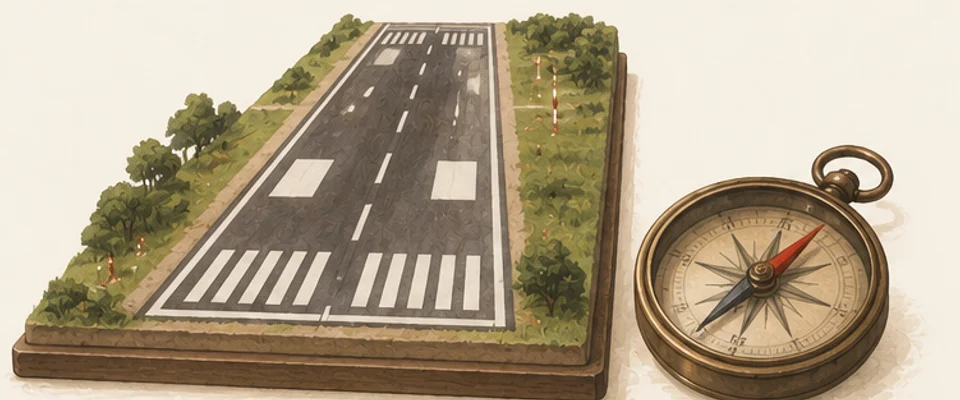
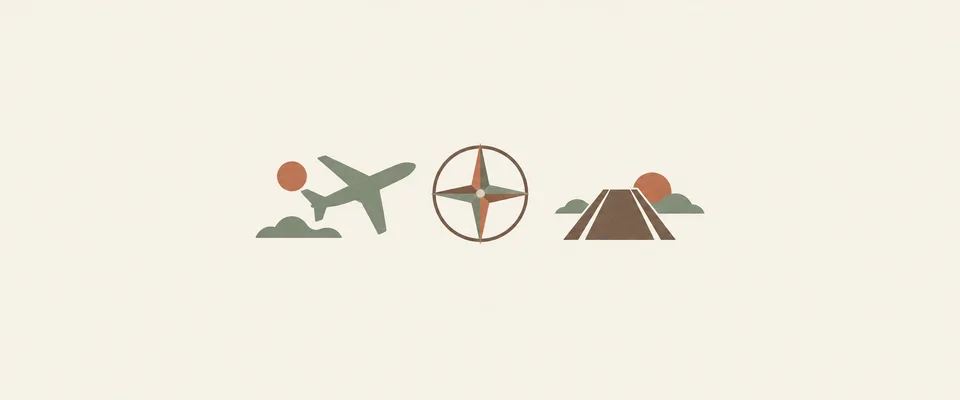
完成线上抽检，统一首批插画并收紧出处与急救表述

diff --git a/src/data/myths-en-extra.ts b/src/data/myths-en-extra.ts
@@ -1552,41 +1552,33 @@ export const MYTHS_EN_EXTRA: Record<string, MythText> = {
   "luxun-some-live-dead": {
     "belief": "\"Some people are alive, yet already dead; some are dead, yet still alive.\" —Lu Xun",
     "truth": "These are the opening lines of poet Zang Kejia's 1949 poem 'Some People', subtitled 'Thoughts in Memory of Lu Xun' — it is about Lu Xun, not by him.",
-    "detail": "'Some People' (Youde ren) was published in 1949 with the subtitle 'Thoughts in Memory of Lu Xun'; Zang Kejia wrote it for the thirteenth anniversary of Lu Xun's death. An article on the China Writers Network about Zang's former home says it was written in October 1949, takes Lu Xun's spirit as its axis, and opens with 'some people are alive, yet already dead; some are dead, yet still alive'.\n\nThe mix-up is easy to understand: the poem is about Lu Xun, appears in school texts and memorial articles, and once the line is clipped from its title and author it reads like his own words. We found only scattered statements that it is widely misattributed to Lu Xun, no systematic count, so I say only that people often quote it that way.\n\nFor reference, a full-text search of an electronic text of Lu Xun's Complete Works returns zero hits. That shows only that it is not in the published collected writings, not that he never wrote anything similar in letters or diaries, but together with the poem's provenance the conclusion is clear.",
-    "origin": "A 1949 memorial poem whose first two lines were clipped into slogans and quote cards; detached from the title, they became tied to Lu Xun's name.",
+    "detail": "Zang Kejia wrote 'Some People' in 1949, with the subtitle 'Thoughts in Memory of Lu Xun'. The China Writers Network article about Zang's former home dates its composition to October 1949 and quotes these opening lines.\n\nLu Xun is the subject of the memorial poem; Zang Kejia is its author. Cite both the author and the poem's title to keep the two roles clear.",
+    "origin": "A memorial poem's subject and author are different people. An excerpt detached from the title can blur those roles.",
     "instead": "Cite it as: Zang Kejia, 'Some People' (1949, subtitled 'Thoughts in Memory of Lu Xun'): 'Some people are alive, yet already dead; some are dead, yet still alive.'",
     "sources": [
       {
         "label": "China Writers Network, 'Visiting Zang Kejia's former home' (notes the poem, written Oct 1949, subtitled 'Thoughts in Memory of Lu Xun')",
         "url": "https://www.chinawriter.com.cn/n1/2023/0728/c404063-40045334.html"
-      },
-      {
-        "label": "Electronic text of Lu Xun's Complete Works, Chinese Marxists Internet Archive (full-text search: zero hits)",
-        "url": "https://www.marxists.org/chinese/reference-books/luxun/index.htm"
       }
     ]
   },
   "luxun-one-confidant": {
-    "belief": "\"To find one true confidant in life is enough; treat the whole world as kin.\" —Lu Xun",
-    "truth": "The couplet is by the Qing-dynasty writer He Wayin; in spring 1933 Lu Xun copied it out as a scroll for Qu Qiubai — he transcribed it, he did not compose it.",
-    "detail": "Several articles record that in spring 1933 Lu Xun wrote out the couplet by the Qing writer He Wayin, 'to find one true confidant in life is enough; treat the world as kin', as a scroll for Qu Qiubai. The People's Political Consultative Conference website article 'Qu Qiubai's cartoon of Ah Q' says exactly this, and another article on Aisixiang also describes Lu Xun writing the couplet out by hand as a gift.\n\nSo the couplet is not Lu Xun's composition but a line by an earlier writer that he chose and copied; the calligraphy became famous because of the two men's friendship, and the words were then quoted widely as a 'Lu Xun saying'. A full-text search of an electronic text of his Complete Works gives zero hits for either half of the couplet, which fits.\n\nOne caveat: We did not open an image of the original scroll, and the detail that its inscription says it is He Wayin's line was not in any page I opened; this entry does not rely on it.",
-    "origin": "Lu Xun's handwriting made the couplet famous, and in secondary quotation 'X wrote it out for Y' easily shrinks to 'X said'.",
-    "instead": "Write: 'a line by the Qing writer He Wayin, which Lu Xun wrote out for Qu Qiubai in 1933'. If you want to speak of their friendship, citing the gift is more accurate than a bare attribution.",
+    "belief": "\"Finding one true confidant in life is enough; regard that person as a kindred spirit in this world.\" — Lu Xun",
+    "truth": "The couplet is attributed to the Qing-dynasty writer He Waqin. Lu Xun copied it as a gift for Qu Qiubai in spring 1933; attributing its authorship solely to Lu Xun is misleading.",
+    "detail": "The CPPCC Net article about Qu Qiubai's Ah Q cartoon records that in spring 1933 Lu Xun wrote out this couplet by the Qing writer He Waqin and gave it to Qu Qiubai.\n\nThe calligrapher and the original author are different roles. This source supports the account of Lu Xun copying and gifting the couplet, not his authorship.",
+    "origin": "A couplet Lu Xun wrote out for Qu Qiubai can be reduced in retelling to 'Lu Xun said'.",
+    "instead": "Cite it as a couplet attributed to the Qing writer He Waqin, copied by Lu Xun for Qu Qiubai in 1933.",
     "sources": [
       {
-        "label": "CPPCC Net, 'Qu Qiubai's cartoon of Ah Q' (spring 1933: Lu Xun writes He Wayin's couplet for Qu Qiubai)",
+        "label": "人民政协网 — Qu Qiubai’s Ah Q cartoon (Lu Xun copies He Waqin’s couplet as a gift, spring 1933)",
         "url": "https://www.rmzxw.com.cn/c/2024-07-17/3579048.shtml"
-      },
-      {
-        "label": "Electronic text of Lu Xun's Complete Works, Chinese Marxists Internet Archive (full-text search: zero hits)",
-        "url": "https://www.marxists.org/chinese/reference-books/luxun/index.htm"
       }
     ]
   },
   "zh-fools-trouble-themselves": {
     "belief": "\"There was originally no trouble in the world; fools make trouble for themselves.\" —proverb",
     "truth": "The source is a remark by Lu Xiangxian in the New Book of Tang: 'There is originally nothing the matter in the world; mediocre people stir it up into trouble.' The popular form is a later smoothing.",
-    "detail": "In the Wikisource text of the New Book of Tang, the biography of Lu Xiangxian says that while governor of Puzhou and inspector of Hedong he governed with leniency, and said: 'The world has originally nothing the matter with it; mediocre people stir it into trouble. If you only clear the source, why worry about simplicity?'\n\nCompared with today's 'shi shang ben wu shi, yong ren zi rao zhi', 'tianxia' (the realm) becomes 'shishang' (the world), and the clause 'stir it into trouble' becomes 'trouble themselves'. The meaning is close, but the original is about government: officials stirring things up with fussy rules. Today it is used as personal advice not to overthink, which shifts the emphasis.\n\nThis is a case of wording drift plus a change of context, not a false attribution to a famous person, so it is treated as harmless.",
+    "detail": "The New Book of Tang describes Lu Xiangxian governing Puzhou and inspecting Hedong with leniency. His remark concerns keeping government simple and avoiding needless interference.\n\nThe popular version changes both the wording and the emphasis: advice about governing becomes advice not to worry unnecessarily. It can be used as a modern proverb, but should not be presented as the exact wording of the historical text.",
     "origin": "A provincial official's remark in a dynastic history, reshaped by folk usage into a proverb and later into lifestyle advice, with the meaning sliding from 'officials, stop meddling' to 'don't worry so much'.",
     "instead": "When accuracy matters, quote the Tang text 'The world originally has nothing the matter...' and say it is about governing; as an everyday proverb the short form is fine, just do not present it as the history's wording.",
     "sources": [
@@ -1598,9 +1590,9 @@ export const MYTHS_EN_EXTRA: Record<string, MythText> = {
   },
   "zh-liang-qichao-drink-ice": {
     "belief": "\"Ten years drinking ice, and still the hot blood does not cool.\" —Liang Qichao",
-    "truth": "Chinese Wikiquote lists it as a false attribution to Liang Qichao, and We could not find it in his writings; what can be traced is the source of 'drinking ice': the Zhuangzi, chapter 'In the World of Men'.",
-    "detail": "Chinese Wikiquote's page on Liang Qichao lists 'Ten years drinking ice, the hot blood does not cool' at the head of its quotations and marks it with the note that it is a spurious attribution to Liang. 'Drinking ice' does connect to him: he styled himself 'Master of the Ice-Drinker's Studio', alluding to the Zhuangzi where Duke Zigao of Ye says 'This morning I received my orders and by evening I am drinking ice — am I feverish inside?' The point is that anxiety about the mission leaves him feeling hot.\n\nSo 'drinking ice' is real, but 'ten years' and 'hot blood does not cool' appear to be a later poetic embellishment that sounds right with the studio name. Online it is often said to express his feelings after the failed 1898 reforms, but what We found were secondary retellings, not his own text.\n\nThe finding is 'no source in his writing found', not proof that he would never have written it, hence the confidence level of limited.",
-    "origin": "The studio name plus a Zhuangzi allusion makes a later parallel couplet sound like Liang's voice, and it circulates on inspirational posts and bookmarks.",
+    "truth": "The complete line lacks a verifiable source in Liang Qichao's own writings. The 'drinking ice' allusion can be traced to the Zhuangzi, but that does not establish his authorship of this sentence.",
+    "detail": "Chinese Wikiquote labels the line a false attribution. That secondary annotation alone does not identify its author or replace a specific reference to Liang's writings.\n\nIn the Zhuangzi, 'drinking ice' describes anxiety after receiving a mission. Liang's studio name refers to that allusion. The allusion's source and the authorship of the complete modern line are separate questions. The available sources neither confirm Liang wrote the line nor prove that he never did.",
+    "origin": "The allusion and Liang's studio name encourage the association, but the complete line's author and date still need reliable documentation.",
     "instead": "Say: 'Liang Qichao styled himself \"Master of the Ice-Drinker's Studio\", from the Zhuangzi.' Label the couplet as 'attributed online, no original text found'.",
     "sources": [
       {

diff --git a/src/data/myths-extra.ts b/src/data/myths-extra.ts
@@ -2235,8 +2235,8 @@ export const MYTHS_EXTRA: Myth[] = [
     "category": "quote",
     "belief": "「有的人活着，他已经死了；有的人死了，他还活着。」——鲁迅",
     "truth": "这是诗人臧克家 1949 年写的诗《有的人》的开头，副题是「纪念鲁迅有感」，写的是鲁迅，不是鲁迅写的。",
-    "detail": "《有的人》发表于 1949 年，副题「纪念鲁迅有感」，是臧克家为纪念鲁迅逝世十三周年所作。中国作家网《走进臧克家故居》一文提到：此诗创作于 1949 年 10 月，以鲁迅的精神为坐标，开头即「有的人活着，他已经死了；有的人死了，他还活着」。\n\n误会的来由并不难理解：这首诗写的就是鲁迅，常被选入课本和纪念文章，一句孤零零的诗被截出来之后，没有标题、没有作者，读者自然会以为是鲁迅的话。我对「它在网上被广泛误署为鲁迅」只有零星转述，没有找到系统的统计，所以只能说「常有人这样引」。\n\n作为参照，本站把本地的《鲁迅全集》电子文本全文检索，这句话零命中。这只能说明公开发表的文集里没有，不能证明鲁迅在书信或日记里绝对没写过类似的话，但配合上面的诗歌出处，结论已经足够清楚。",
-    "origin": "一首 1949 年的纪念诗，被截取开头两句做成标语和名言卡片，脱离标题后与「鲁迅」二字形成了强关联。",
+    "detail": "《有的人》是臧克家 1949 年写的诗，副题为「纪念鲁迅有感」。中国作家网《走进臧克家故居》记述其创作时间为 1949 年 10 月，并引述了这两句开头。\n\n诗歌纪念的是鲁迅，作者却是臧克家。引用时应同时注明作者和作品名称，避免把纪念对象当作作者。",
+    "origin": "诗歌的纪念对象与作者是两个人；摘录脱离作品标题后，容易混淆这两层关系。",
     "instead": "引用时写：「臧克家《有的人》（1949,副题『纪念鲁迅有感』）：『有的人活着，他已经死了；有的人死了，他还活着。』」",
     "stakes": "harmless",
     "confidence": "strong",
@@ -2244,10 +2244,6 @@ export const MYTHS_EXTRA: Myth[] = [
       {
         "label": "中国作家网 —— 《走进臧克家故居》（提及《有的人》1949 年 10 月创作，副题「纪念鲁迅有感」）",
         "url": "https://www.chinawriter.com.cn/n1/2023/0728/c404063-40045334.html"
-      },
-      {
-        "label": "中文马克思主义文库《鲁迅全集》电子文本（全文检索该句零命中）",
-        "url": "https://www.marxists.org/chinese/reference-books/luxun/index.htm"
       }
     ],
     "related": [
@@ -2258,9 +2254,9 @@ export const MYTHS_EXTRA: Myth[] = [
     "id": "luxun-one-confidant",
     "category": "quote",
     "belief": "「人生得一知己足矣，斯世当以同怀视之。」——鲁迅",
-    "truth": "这是清人何瓦琴的联句；鲁迅 1933 年春把它抄成联语送给瞿秋白，落笔是「录」，不是自撰。",
-    "detail": "多篇文章提到：1933 年春，鲁迅把清代何瓦琴的名句「人生得一知己足矣，斯世当以同怀视之」写成联语，赠给瞿秋白。人民政协网转载的《瞿秋白绘制阿Q漫画》一文即是这样写的，爱思想网另一篇文章也记述鲁迅「手书」此联相赠。\n\n所以事实是：这副联不是鲁迅的创作，而是他挑选并抄写的前人联句；这件书法因两人的友谊而著名，于是句子被大量当作「鲁迅名言」引用。本站用《鲁迅全集》电子文本检索，「人生得一知己」「斯世当以同怀视之」都零命中，与此相符。\n\n需要说明：本站没有打开过原件的图片，「落款写明录何瓦琴句」这一细节没有在已打开的页面里看到，条目里不依赖它。",
-    "origin": "鲁迅的手迹让这副联闻名，「某某书赠某某」在二手转引中很容易被缩成「某某说」。",
+    "truth": "这副联被记为清人何瓦琴的句子；鲁迅在 1933 年春抄写成联语赠给瞿秋白，不宜仅署名为鲁迅原创。",
+    "detail": "人民政协网《瞿秋白绘制阿Q漫画》记述：1933 年春，鲁迅将清代何瓦琴的这副联句书写成联语，赠给瞿秋白。\n\n书写者不等于原作者。现有出处支持「鲁迅抄写并赠送这副联」，并不支持把它当作鲁迅原创。",
+    "origin": "鲁迅书赠瞿秋白的联语，容易在转引时被简化成「鲁迅说」。",
     "instead": "可以写：「清人何瓦琴句，鲁迅 1933 年书赠瞿秋白。」若只想表达鲁迅与瞿秋白的友谊，引用时附上这一层关系比单独署名更准确。",
     "stakes": "harmless",
     "confidence": "strong",
@@ -2268,10 +2264,6 @@ export const MYTHS_EXTRA: Myth[] = [
       {
         "label": "人民政协网 —— 《瞿秋白绘制阿Q漫画》（记 1933 年春鲁迅将清代何瓦琴名句书写成联语赠瞿秋白）",
         "url": "https://www.rmzxw.com.cn/c/2024-07-17/3579048.shtml"
-      },
-      {
-        "label": "中文马克思主义文库《鲁迅全集》电子文本（全文检索该联零命中）",
-        "url": "https://www.marxists.org/chinese/reference-books/luxun/index.htm"
       }
     ],
     "related": [
@@ -2284,7 +2276,7 @@ export const MYTHS_EXTRA: Myth[] = [
     "category": "quote",
     "belief": "「世上本无事，庸人自扰之。」——俗语",
     "truth": "源头是《新唐书·陆象先传》里陆象先的话：「天下本无事，庸人扰之为烦耳」，流行版本是后人顺口改写的。",
-    "detail": "本站在维基文库的《新唐书·陆象先传》里核对到原文：陆象先任蒲州刺史、兼河东按察使时，以仁恕为政，他说：「天下本无事，庸人扰之为烦耳。第澄其源，何忧不简邪？」意思是天下本来无事，是平庸的人自己去搅扰才生出烦恼；只要把源头澄清，不用担心不能简化。\n\n对比现在通行的「世上本无事，庸人自扰之」，「天下」变「世上」、「扰之为烦耳」变「自扰之」。意思相近，但原话说的是为政：官员以繁琐的法令和手段扰民、扰事；如今被当成「别想太多」的个人劝慰，侧重点变了。\n\n这条属于「措辞走样加语境改变」，不涉及伪托某位名人，故按无害处理。",
+    "detail": "《新唐书·陆象先传》记述陆象先任蒲州刺史、兼河东按察使时，以仁恕为政。传中这段话讨论的是施政应当简省，避免无谓地扰民生事。\n\n流行版本把「天下」改为「世上」，把「扰之为烦耳」改为「自扰之」，也把施政语境转成了「个人别自寻烦恼」的劝慰。它可以作为今天的俗语使用，但不是史书原文。",
     "origin": "史书里一位地方官的施政心得，经民间改写成四字一顿的俗语，后来在心灵鸡汤里意思从「官府少扰民」滑向「个人别自寻烦恼」。",
     "instead": "需要准确时，引《新唐书》原话「天下本无事，庸人扰之为烦耳」，并交代它说的是治理；日常用「世上本无事，庸人自扰之」作俗语也行，只是别当成史书原文。",
     "stakes": "harmless",
@@ -2303,9 +2295,9 @@ export const MYTHS_EXTRA: Myth[] = [
     "id": "zh-liang-qichao-drink-ice",
     "category": "quote",
     "belief": "「十年饮冰，难凉热血。」——梁启超",
-    "truth": "维基语录把它标为「伪托梁启超」；本站也没有在梁启超的文字里查到这句，查得到的只有「饮冰」的出处：《庄子·人间世》。",
-    "detail": "中文维基语录的《梁启超》条目，把「十年饮冰，难凉热血」列在语录开头，并明确标注「这是伪托梁启超的语录」。「饮冰」确实和梁启超有关：他自号「饮冰室主人」，典故出自《庄子·人间世》叶公子高的话：「今吾朝受命而夕饮冰，我其内热与？」——早上接受使命，晚上就要喝冰水，是内心焦灼发热的缘故。\n\n所以「饮冰」是真的，「十年」「难凉热血」这两句却是后人编的诗意演绎，配上「饮冰室」的名头，非常像梁启超的口吻。这句话在网上常被说成他在戊戌变法失败后所作，但搜到的是二手转述，本站没有找到他本人的原文。\n\n结论是「没有找到他写过这句话的出处」，不是「证明他绝不会这么写」，所以信心放在 limited。",
-    "origin": "「饮冰室」的名头加上庄子典故，让一句后人写的对仗句很容易被安到梁启超头上；在励志文章和书签文案里广泛流传。",
+    "truth": "这句话尚缺可核实的梁启超原文出处。「饮冰」典故可以追溯到《庄子·人间世》，但不能据此认定整句出自梁启超。",
+    "detail": "中文维基语录将此句标为伪托，但这一二手标注本身不足以证明它是谁创作的，也不能代替梁启超作品的具体出处。\n\n《庄子·人间世》的「饮冰」描写受命后的内心焦灼；梁启超的「饮冰室主人」之号与这个典故有关。典故的来源和「十年饮冰，难凉热血」整句的作者，是两个需要分别核实的问题。现有出处尚不能确认梁启超写过这句话，也不能据此证明他绝未写过。",
+    "origin": "「饮冰」典故及「饮冰室主人」之号容易让人把整句与梁启超联系起来；整句的创作时间和作者仍待可靠出处确认。",
     "instead": "可以写：「梁启超自号『饮冰室主人』，典出《庄子·人间世》『朝受命而夕饮冰』」。至于『十年饮冰，难凉热血』，可标为『网传，未见梁启超原文』。",
     "stakes": "harmless",
     "confidence": "limited",

diff --git a/src/data/myths-en.ts b/src/data/myths-en.ts
@@ -1068,15 +1068,15 @@ export const MYTHS_EN: Record<string, MythText> = {
   "truth": "Water makes an already-blocked airway more dangerous. The airway and the esophagus are two different paths.",
   "detail": "A foreign object lodged in the airway won't be flushed down by water — the water itself has to pass through the pharynx, and it can trigger choking and aspiration, making things worse. Don't sweep blindly inside the mouth with a finger either; that often pushes the object deeper.\n\nJudging whether the obstruction is complete matters: if the person can still cough or make sounds, air is still getting through — encourage hard coughing. If they can't cough audibly, can't speak, clutch their throat with both hands, or turn blue, that's a complete obstruction and you must act immediately.",
   "origin": "'Wash it down' is experience from food stuck in the esophagus (where a drink of water really does help), misapplied to an airway obstruction.",
-  "instead": "For complete obstruction in adults and children over one year: stand behind them and alternate 5 back blows (heel of the hand between the shoulder blades) with 5 abdominal thrusts (the Heimlich maneuver), repeating until the object comes out. For infants under one year, switch to 5 back blows plus 5 chest thrusts — no abdominal thrusts. If the person loses consciousness, start CPR. Call an ambulance (120 in China) at the same time. These moves are worth practicing once in a real training session.",
+  "instead": "For complete obstruction, call local emergency services first (120 in mainland China); ask someone else to call or use speakerphone while giving care. For adults and children over one year: stand behind them and alternate 5 back blows (heel of the hand between the shoulder blades) with 5 abdominal thrusts (the Heimlich maneuver), repeating until the object comes out. For infants under one year, switch to 5 back blows plus 5 chest thrusts — no abdominal thrusts. If the person loses consciousness, start CPR. These moves are worth practicing once in a real training session.",
   "sources": [
     {
       "label": "American Red Cross — Adult & Child Choking: Symptoms and First Aid",
       "url": "https://www.redcross.org/take-a-class/resources/learn-first-aid/adult-child-choking"
     },
     {
-      "label": "St John Ambulance — Choking (includes infant procedure)",
-      "url": "https://www.sja.org.uk/first-aid-advice/choking/"
+      "label": "American Red Cross — Infant choking: calling for help, back blows and chest thrusts",
+      "url": "https://www.redcross.org/take-a-class/resources/learn-first-aid/infant-choking"
     }
   ]
 },
@@ -1361,13 +1361,18 @@ export const MYTHS_EN: Record<string, MythText> = {
 },
   "electric-shock-pull": {
   "belief": "If someone's being electrocuted, grab them and pull them away immediately",
-  "truth": "Grabbing them barehanded lets the current flow through you too — that's how double electrocutions happen. The first step is always cutting the power, not pulling the person.",
-  "detail": "The human body conducts. When someone is in tetanic grip on a live source and you yank them, the circuit runs through you, and now two people are being shocked. Step one of electrical first aid is breaking the circuit: flip the breaker, pull the plug. If you can't reach a switch, push the wire or the person apart with something dry and insulating — dry wood, plastic, thick rubber. Dry and insulating are the operative words.\n\nOnce they're clear, check consciousness and breathing: no normal breathing means start CPR and have someone call an ambulance. A shock victim may look fine, but current through the heart can trigger arrhythmias — even someone who feels fine should get checked at a hospital.",
+  "truth": "Grabbing them barehanded lets the current flow through you too — that's how double electrocutions happen. Call for help and isolate the supply safely; never pull the person barehanded.",
+  "detail": "Touching someone who is still in contact with electricity can electrocute the rescuer too. Call local emergency services first and switch off the supply only if it is safe. Ordinary wood, plastic or rubber must not be assumed to provide reliable insulation at any voltage. If the supply cannot be safely isolated, stay clear and wait for professional rescue.\n\nOnce power is isolated and the scene is safe, check responsiveness and breathing. If breathing is not normal, follow the emergency dispatcher’s CPR instructions and use an available AED. Electrical injuries need medical assessment.",
   "origin": "Seeing someone you love getting shocked, 'pull them off' is hardwired. First-aid training exists precisely to slam the brakes on instinct at moments like this.",
-  "instead": "Memorize it: cut the power first (breaker / insulating object) → call emergency services → CPR if there's no normal breathing. Until you've confirmed the power is off, hands off.",
+  "instead": "Call local emergency services first (120 in mainland China), while someone safely isolates the power. Do not touch the person until isolation is confirmed. If it cannot be done safely, wait for professional rescue. Once safe, check breathing and follow the dispatcher’s instructions.",
   "sources": [
     {
-      "label": "Electrical-injury first aid (power off before rescue) — Red Cross first-aid guidance (no stable public link)"
+      "label": "St John Ambulance — Electric shock (low-voltage household and workplace supplies: do not touch, isolate power, call for help)",
+      "url": "https://www.sja.org.uk/first-aid-advice/electrocution/"
+    },
+    {
+      "label": "Mayo Clinic — Electrical shock first aid: high-voltage safety and medical assessment",
+      "url": "https://www.mayoclinic.org/first-aid/first-aid-electrical-shock/basics/art-20056695"
     }
   ]
 },

diff --git a/src/data/myths.ts b/src/data/myths.ts
@@ -2081,7 +2081,7 @@ export const MYTHS: Myth[] = [
       '异物卡在气道里，喝水不会把它冲下去——水本身也要经过咽部，可能引发呛咳误吸，让情况更糟。也不要用手指盲目地在嘴里掏，那常常把异物推得更深。\n\n判断是否完全梗阻很关键：还能咳嗽、能发出声音，说明气道还有通气，应鼓励用力咳嗽；如果咳不出声、说不出话、双手掐住脖子、面色青紫，那是完全梗阻，必须立刻行动。',
     origin: '「顺一顺」是处理食物噎在食道里的经验（那种情况确实喝水会舒服），被误用到了气道梗阻上。',
     instead:
-      '成人和一岁以上儿童完全梗阻：站到身后，交替进行 5 次背部拍击（掌根拍两肩胛骨之间）和 5 次腹部冲击（海姆立克法），直到异物排出。一岁以下婴儿改为 5 次拍背加 5 次胸部按压，不做腹部冲击。患者失去意识就开始心肺复苏。同时叫救护车。这些动作值得找机会实际练一次。',
+      '完全梗阻时先打急救电话（中国大陆 120，其他地区使用当地号码），请旁人呼救或开免提，同时开始施救。成人和一岁以上儿童：站到身后，交替进行 5 次背部拍击（掌根拍两肩胛骨之间）和 5 次腹部冲击（海姆立克法），直到异物排出。一岁以下婴儿改为 5 次拍背加 5 次胸部按压，不做腹部冲击。患者失去意识就开始心肺复苏。这些动作值得找机会实际练一次。',
     stakes: 'risky',
     confidence: 'strong',
     sources: [
@@ -2090,8 +2090,8 @@ export const MYTHS: Myth[] = [
         url: 'https://www.redcross.org/take-a-class/resources/learn-first-aid/adult-child-choking',
       },
       {
-        label: 'St John Ambulance —— Choking（含婴儿处理流程）',
-        url: 'https://www.sja.org.uk/first-aid-advice/choking/',
+        label: '美国红十字会 —— 婴儿气道梗阻：呼救、拍背和胸部冲击',
+        url: 'https://www.redcross.org/take-a-class/resources/learn-first-aid/infant-choking',
       },
     ],
     related: ['seizure-mouth', 'cpr-hard'],
@@ -2201,16 +2201,21 @@ export const MYTHS: Myth[] = [
     id: 'electric-shock-pull',
     category: 'urgent',
     belief: '有人触电了，赶紧上手把他拉开',
-    truth: '徒手去拉，电会通过两个人——连环触电就是这么发生的。第一步永远是断电，不是拉人。',
+    truth: '徒手去拉，电会通过两个人——连环触电就是这么发生的。先呼救并安全断电，不能徒手拉人。',
     detail:
-      '人体是导体，触电者肌肉痉挛抓握电源时，你去拽他，电流会经过你的身体形成回路，结果是两个人一起触电。急救原则的第一步是切断电源：拉闸、拔插头。够不到开关，用干燥的木棍、塑料、厚橡胶制品把电线或触电者拨开——干燥且绝缘是关键。\n\n脱离电源后立刻判断意识和呼吸：没有正常呼吸就开始心肺复苏、叫人打 120。触电者外表可能没事，但电流经过心脏可引起心律失常，醒了也应该去医院观察。',
+      '人体可以导电；直接接触仍与电源相连的伤者，会让施救者也触电。先打急救电话，并在不冒险的前提下关闭电源。不要把普通木棍、塑料或橡胶当作任何电压下都可靠的绝缘工具。不能安全断电时不要靠近或触碰，等待专业救援。\n\n确认已脱离电源、现场安全后，检查反应与呼吸；没有正常呼吸时按急救调度员指导进行心肺复苏，使用可用的 AED。触电后应接受医疗评估。',
     origin: '看到亲近的人触电，「拉开」是刻在身体里的第一反应。急救知识存在的意义，就是在这种时候给本能踩刹车。',
-    instead: '背下来：先断电（拉闸/绝缘物挑开）→ 叫 120 → 没呼吸就 CPR。自己不确认电源断开，绝不上手。',
+    instead: '先打急救电话（中国大陆 120；其他地区使用当地号码），同时请人安全断电。未确认断电，绝不徒手接触；无法安全隔离电源时等待专业救援。确认现场安全后再评估呼吸并按调度员指导施救。',
     stakes: 'risky',
     confidence: 'strong',
     sources: [
       {
-        label: '触电急救原则（先断电后施救）—— 见红十字会急救教程（本条无稳定公开链接）',
+        label: '圣约翰救护机构 —— 触电急救（家庭及工作场所低压电：勿触碰、断电、呼救）',
+        url: 'https://www.sja.org.uk/first-aid-advice/electrocution/',
+      },
+      {
+        label: '梅奥诊所 —— 触电急救：高压电安全距离与医疗评估',
+        url: 'https://www.mayoclinic.org/first-aid/first-aid-electrical-shock/basics/art-20056695',
       },
     ],
     related: ['cpr-hard', 'film-electric-shock-thrown-back'],

diff --git a/content-staging/approve.py b/content-staging/approve.py
@@ -32,6 +32,9 @@ PATCHES = {
   ('en','detail'): [('\n\nA search result also mentioned that the Churchill Centre says there is no record of anyone hearing him say it; I could not open that page, so treat it as corroboration only.','')],
  },
 }
+# 已打开出处逐条复核的编辑覆盖；保留原始研究稿便于追溯。
+from pathlib import Path
+REVIEWED = json.loads((Path(__file__).parent / 'review-2026-10-06.json').read_text())
 EXTRA = {}
 SKIP = {'film-drowning-loud-splash'}  # 与现有 drowning-silent 重复
 URL_FIX = {'http://www.diffordsguide.com/encyclopedia/2292/cocktails/origins-of-the-word-cocktail': 'https://www.diffordsguide.com/encyclopedia/2292/cocktails/origins-of-the-word-cocktail'}
@@ -84,6 +87,9 @@ def apply(e):
                 raise SystemExit(f"补丁未命中 {e['id']} {lang}.{field}: {old[:30]}…")
             tgt[field] = tgt[field].replace(old, new)
     e.update(EXTRA.get(e['id'], {}))
+    reviewed = REVIEWED.get(e['id'], {})
+    e.update(reviewed.get('zh', {}))
+    e['en'].update(reviewed.get('en', {}))
     voice(e)
     for lst in (e['sources'], e['en']['sources']):
         for x in lst:

diff --git a/PLAN-2026-10-04.md b/PLAN-2026-10-04.md
@@ -76,3 +76,38 @@
 - 图片阶段计划：多标签页并行（每标签一个 ChatGPT 对话，每批 2–3 张同时生成），每批后目视检查；约 80 张。
 - 15:37 两次上线：e7cb15e（59 条）、74f6f68（69 条，含「为什么长这样」10 条）。线上 350 页，已验证。未上线：word 板块 13 条（已出 3 张图）、why-runway-numbers、以及起源/名言/鲁迅等共约 40 条（content-staging/approved/ 里已审过，缺插画；出图后 `node scripts/merge-staging.mjs --only-illustrated --skip-category=word`，word 齐了去掉 skip 并放开 types.ts 里的 word 分类）。
 - 2026-10-06 227 条全部上线（a85971d）。网格裁切出图法与剩余待办见 HANDOVER.md 第 12 节。
+
+## 2026-10-06 接手抽检与首批插画替换
+
+抽检基线为上线的 227 条。中文详情每板块抽 3 条，名言板块抽 5 条，共 35 条；逐条看文字与横幅插画。另从这 35 条的中英文预渲染页面读取 OG 地址，下载并目视检查 70 张分享图：HTTP 200，均为 1200×630，未见缺图、乱码或溢出；长摘要末尾省略号是现有设计。手机 390×844 补看「十年饮冰」，无横向溢出。这是抽检，不代表全站出处已经逐条核实。
+
+样本清单：
+- 吃：breakfast、bone-soup、craving-deficiency。
+- 身体：wet-hair、cramp-calcium、lasik-cure。
+- 睡：nightcap、elder-sleep、night-mode-phone。
+- 运动：spot-reduction、fasted-cardio、more-exercise。
+- 生活：alcohol-warm、cotton-swab、hand-sanitizer。
+- 关键时刻：nosebleed、heimlich-baby、electric-shock-pull。
+- 名言没说过：world-einstein-compound-interest、luxun-some-live-dead、luxun-one-confidant、zh-fools-trouble-themselves、zh-liang-qichao-drink-ice。
+- 电影骗了你：film-silencer、film-water-breaking、film-shark-smell-blood-miles。
+- 起源是编的：origin-railway-gauge、origin-li-bai-moon-drowning、origin-thomas-crapper-flush-toilet。
+- 这个词你用错了：word-kongxue-laifeng、word-meilun-meihuan、word-jiujia-bugui。
+- 为什么长这样：why-manhole-round、why-pill-score-line、why-wire-marker-balls。
+
+本批完成：
+- 指定四张名言插画改为奶油底扁平风，单张生成原图 1942×809，再用 illu-import 导入 960×400；不使用四宫格放大，逐张检查无人、无文字、无水印、裁切完整。
+- 同一内容管线复核上述四条：以已打开的中国作家网、人民政协网、《新唐书》《庄子》文本为依据，删除研究员口吻和不可复现的本地全文检索证明；删除「知己」未经原件核实的落款断言；「十年饮冰」保留 limited，撤回「后人编造」断言。英文「同怀」改为指向知己，何瓦琴拼音改为 He Waqin。
+- 原始研究稿不改；覆盖记录保存在 content-staging/review-2026-10-06.json，由 approve.py 应用，再 merge-staging 生成站点数据。
+- 气道梗阻、触电的呼救置于处理步骤开头。婴儿气道梗阻补美国红十字会具体页面；触电补圣约翰救护机构与梅奥诊所链接，取消把普通木棍/塑料视作任意电压下可靠绝缘工具的泛化指令。
+
+后续问题（按优先级）：
+1. 急救逐条复核：nosebleed 的严重症状应明确何时先呼救；alcohol-warm 如涉及失温应补急救求助情境。轻微鼻血不应一概要求叫救护车。
+2. 出处精确化：bone-soup 只有学会首页，无法直接核对其具体数字；lasik-cure 缺稳定公开来源；night-mode-phone 缺完整综述书目信息，且「多巴胺才是最大问题」表述需要更精确证据；spot-reduction 的出处与正文举例训练部位不一致，需补相应研究。以上记录为待复核，不据此断言条目为假。
+3. 旧图裁切与语义：craving-deficiency 接近无信息色块；cramp-calcium 不易辨认；elder-sleep 的钟表数字不符合无文字要求；spot-reduction、more-exercise 有人物；cotton-swab 画面不像棉签；heimlich-baby 的物件不够明确。其余旧图按清晰度和语义逐步替换。
+4. 新图也需继续筛查：luxun-coffee-genius 的手稿有伪文字；网格图原生单格约 768/836 像素，成品 960 像素不能证明原生清晰度，需从原图记录确认。
+5. 正文继续去研究员口吻：why-wire-marker-balls、film-silencer 等样本仍有「本站查到/没有逐一核实」叙述。不要仅把「我」替换成「本站」。
+6. 现有 generate-revisions.mjs 只查手写 myths.ts 的 id 增删，未覆盖生成的 myths-extra.ts，也不能正确捕捉仅正文更新；运行会报告 123 个新板块 id 缺失。此次运行未产生 tracked diff。另保留已知 App.tsx locale 依赖 lint 警告。
+
+ChatGPT 账号历史未操作。此次不新增条目，总数保持 227。
+
+首批追加替换：wet-hair（去人物）、hand-sanitizer（去伪文字）、why-runway-numbers、word-weiyan-weixing（替换低原生分辨率网格图）。四张独立原图均 1942×809，导入后逐张目视通过。总计本批换图 8 张，旧 640×640 方图剩 102 张；网格图剩余数量应按四宫格导入记录逐组确认，不能从成品分辨率推算。

diff --git a/HANDOVER.md b/HANDOVER.md
@@ -429,3 +429,12 @@ ChatGPT 的下载按钮存到 ~/Downloads 再导入的。** 旧的 104 条是 po
 **加新条目**：见第 11 节管线（BRIEF → 研究员 JSON → `content-staging/approve.py` → `node scripts/merge-staging.mjs` → `npm run og` → `npm test` → build → push）。新条目必须有 `public/illu/<id>.webp`，否则测试不过；`--only-illustrated` 可先合并已有图的条目。
 
 **注意**：研究员（AI）的稿子一律人工审：出处能打开、结论不过度（"查无出处" ≠ "是假的"）、无"我核对了…"口吻、急救类要写先打急救电话。
+
+### 2026-10-06 接手更新
+
+- 已完成每板块 3–5 条的线上目视抽检：35 条中文详情、对应 70 张中英文 OG 图。完整样本和问题见 PLAN-2026-10-04.md 末尾。
+- 四张指定风格不一致插画已重做；另替换旧方图 wet-hair、hand-sanitizer，以及网格图 why-runway-numbers、word-weiyan-weixing。旧方图还剩 102 张。
+- 本次使用 Codex 内置图像工具分别生成，原图均 1942×809，用 illu-import 导入。八张均已目视检查，不需要四宫格放大。原图仍仅本地留档。
+- 四条名言按既有审核管线修正，审稿覆盖单独留档；「十年饮冰」仍为 limited。另修正两条急救建议的呼救顺序并补官方来源。没有新增条目，仍为 227 条。
+- 仍须逐步复核旧条目出处、正文口吻、急救情境，继续换图。generate-revisions.mjs 的历史追踪目前未覆盖新板块，也不能准确捕捉正文修改；详见进度记录。
+- ChatGPT 历史对话未操作。
